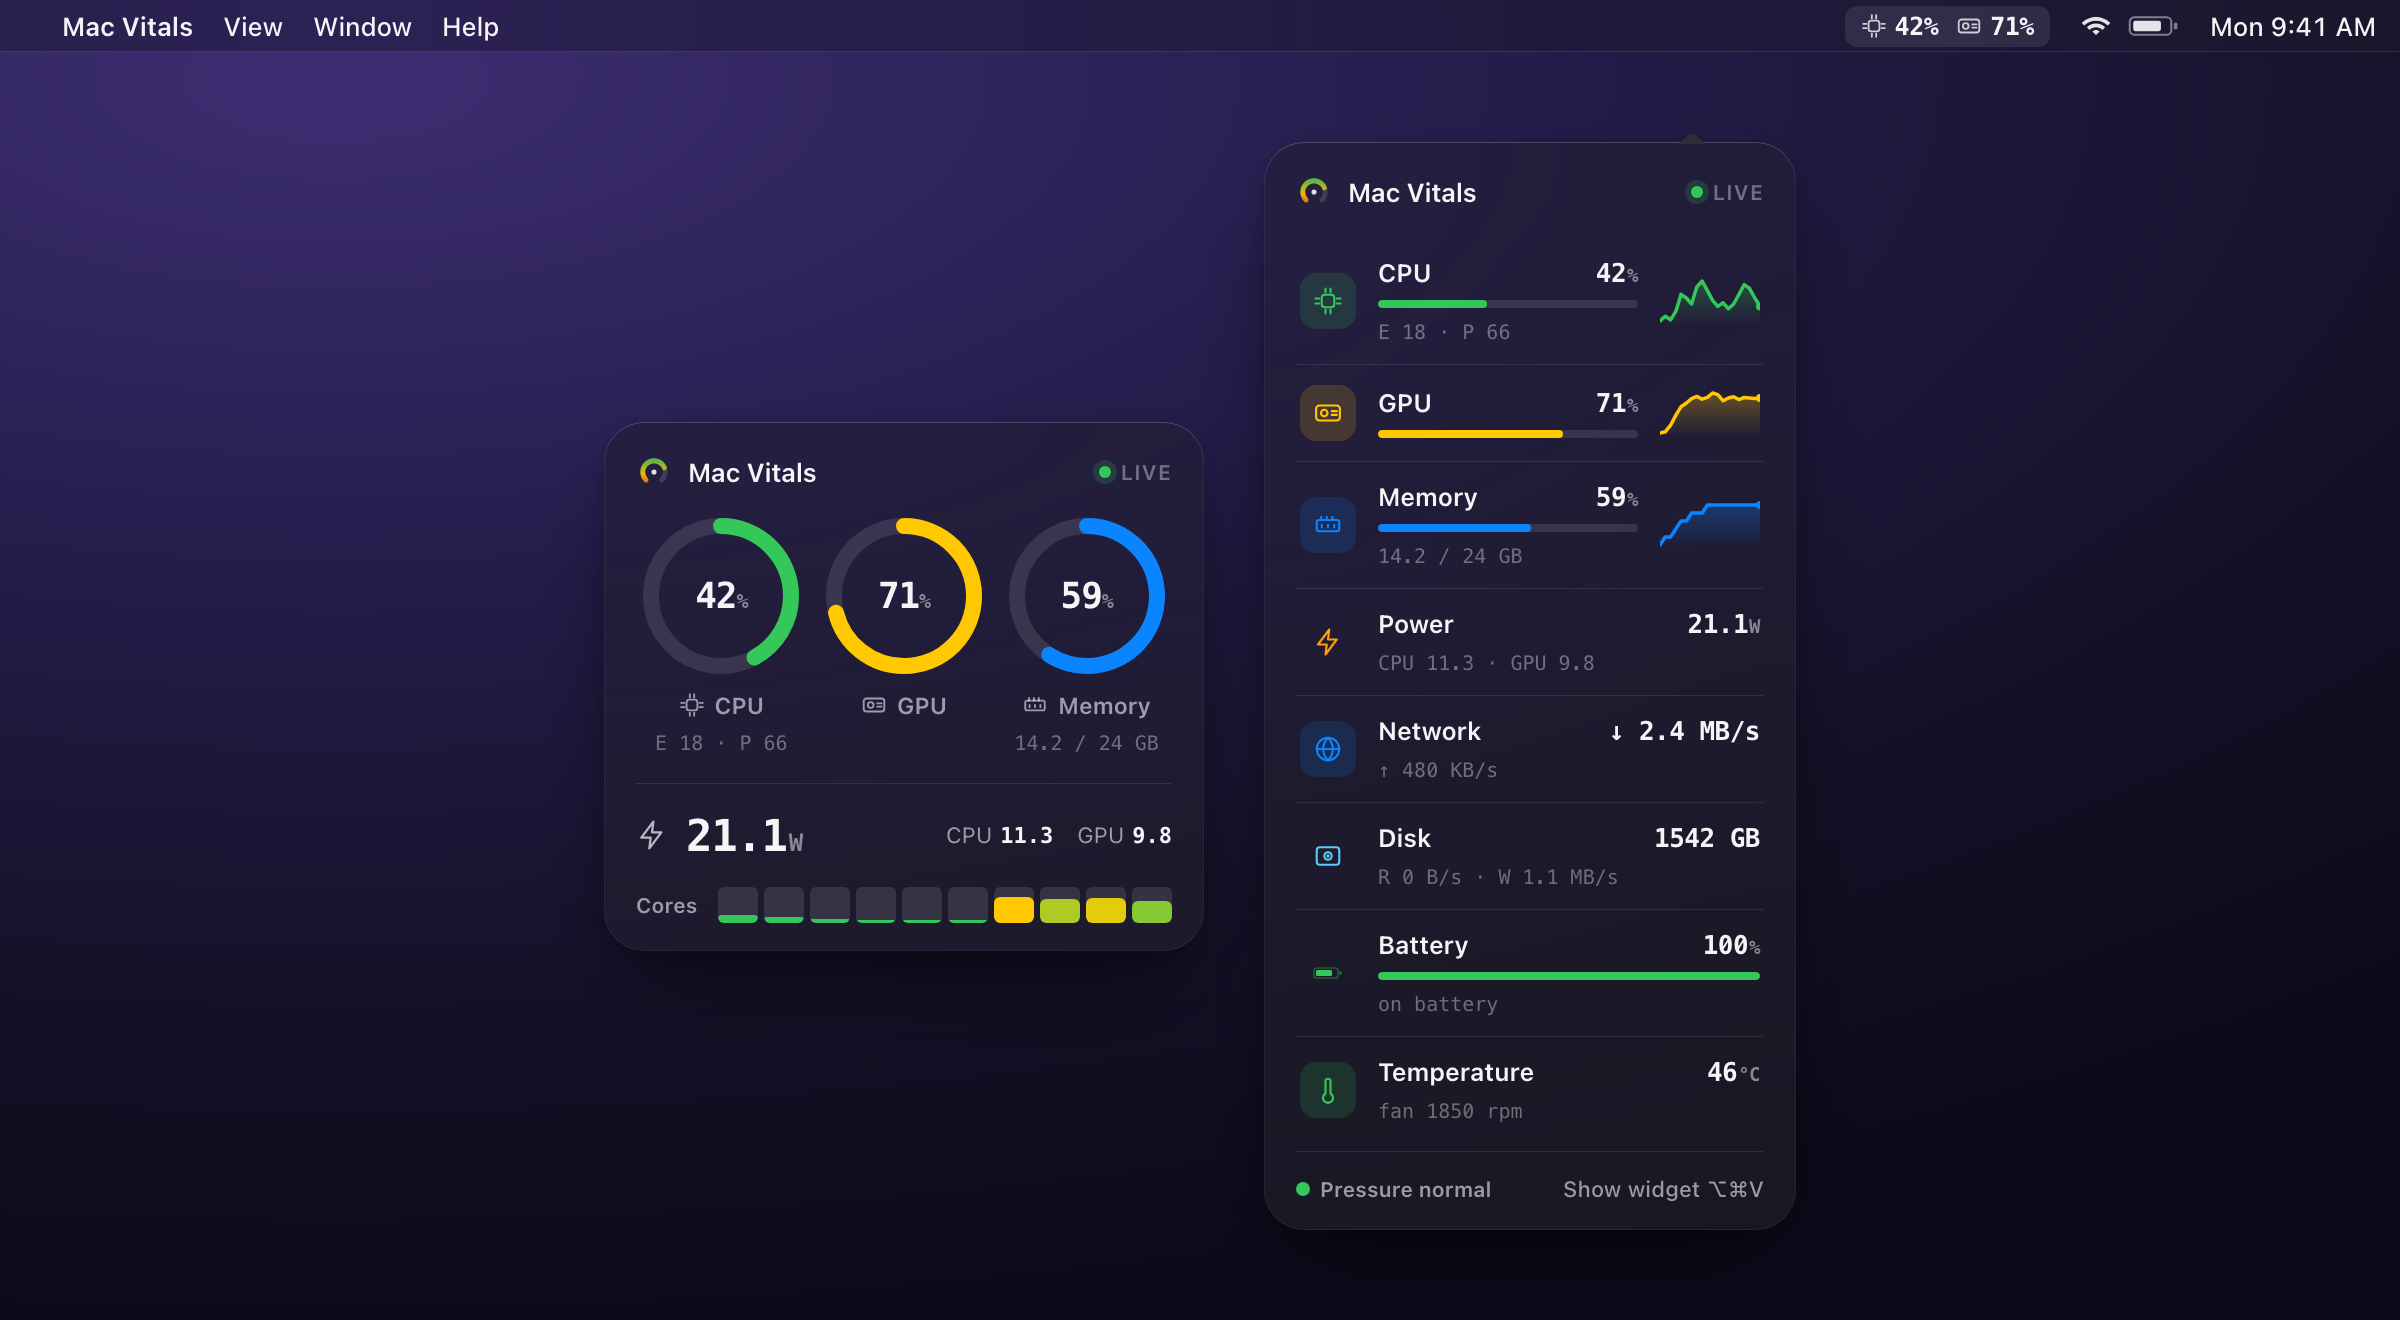
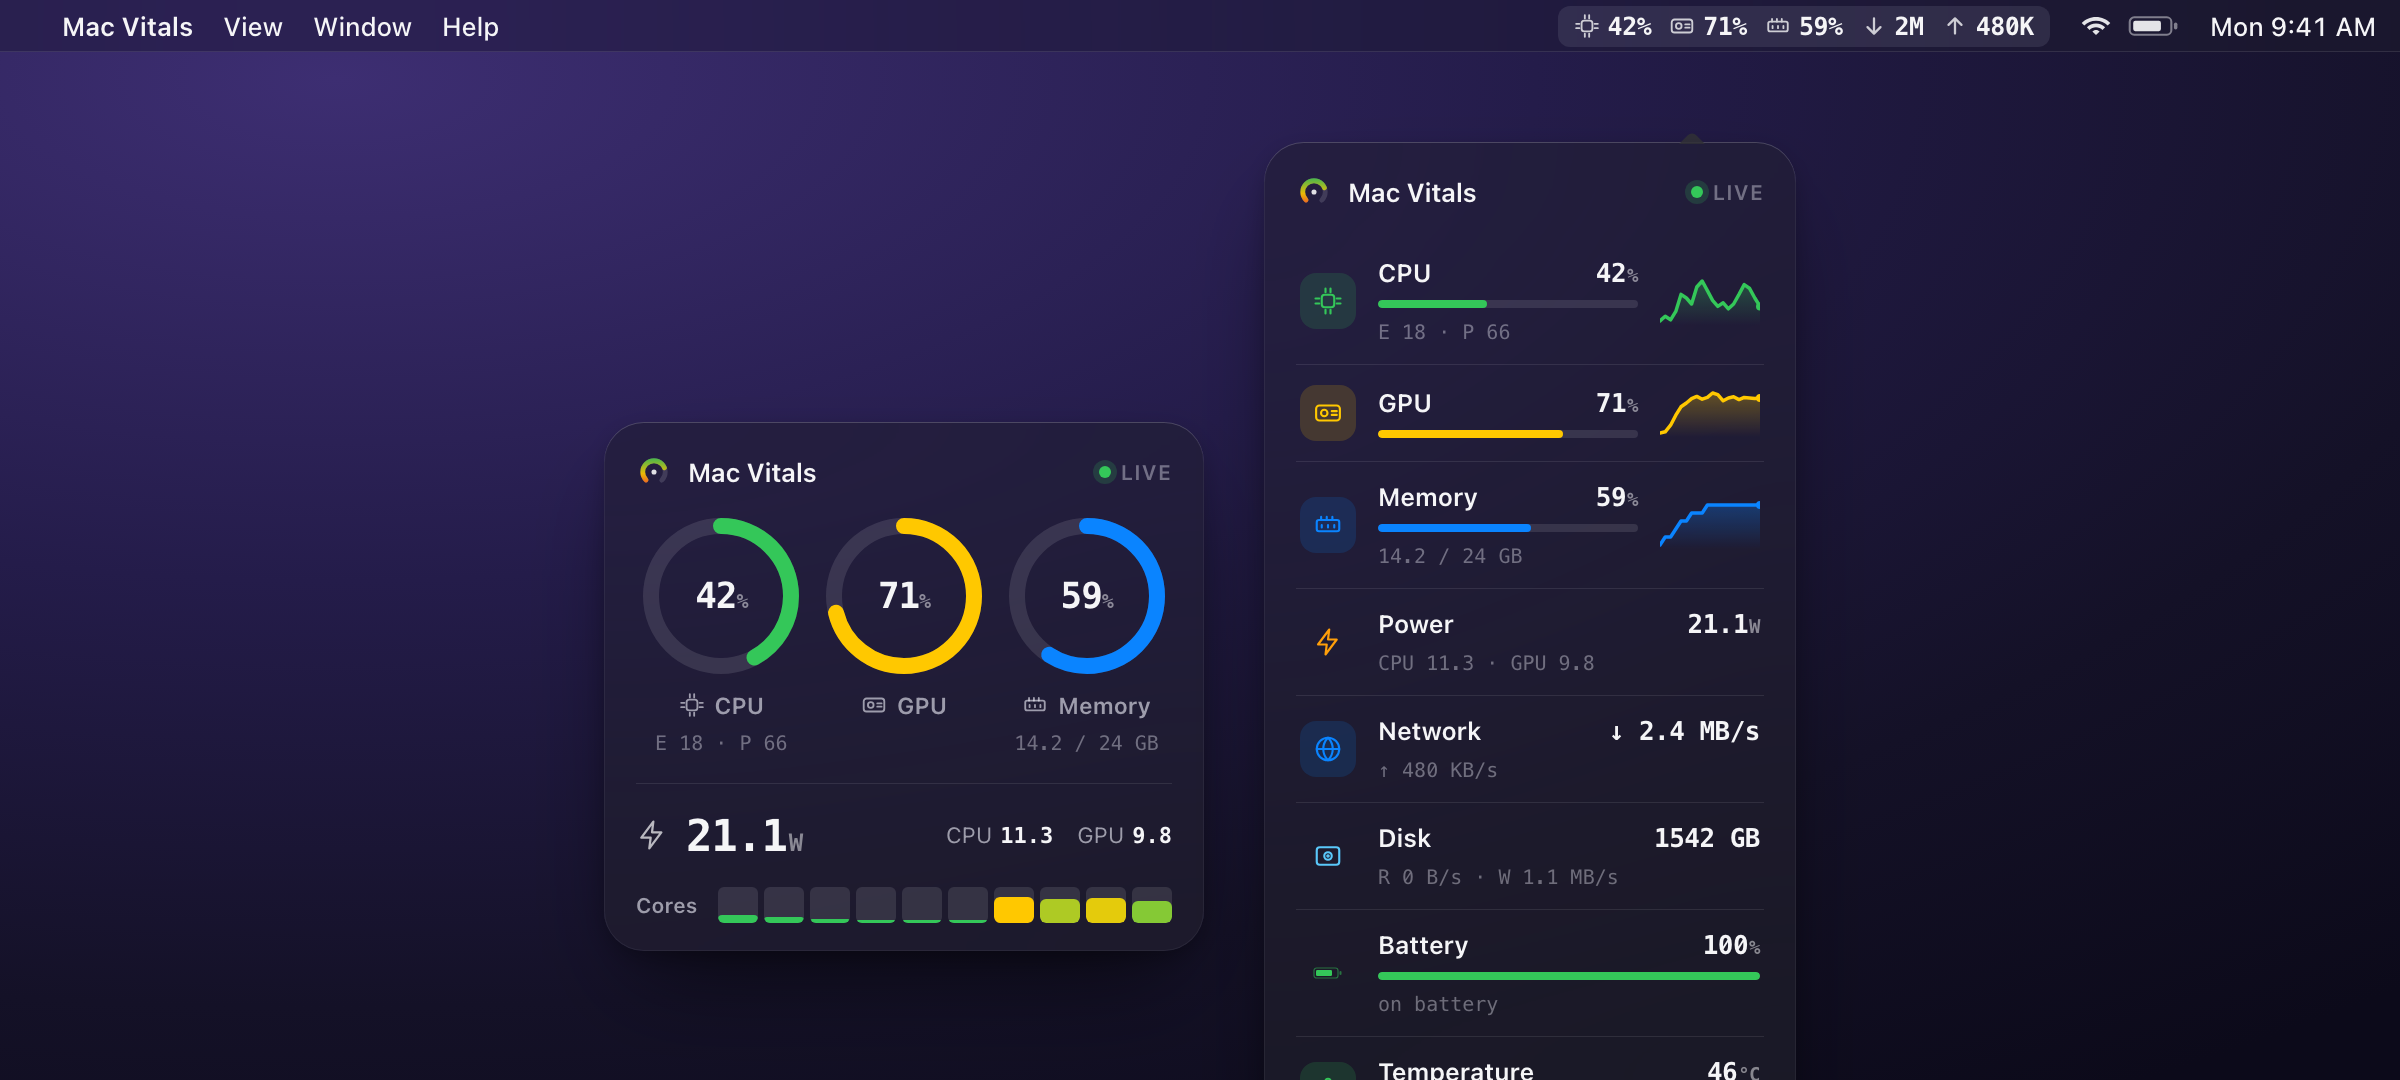
Fix stale menu-bar readout in hero and social card
The menu bar shows CPU, GPU, memory, and network in/out in its default full
mode, but the hero and social card still drew only CPU and GPU. Match them to
the app: add memory and the down/up rates with the same compact format.

diff --git a/docs/design/hero.html b/docs/design/hero.html
@@ -232,7 +232,9 @@ const I = {
   disk:`<svg viewBox="0 0 24 24" fill="none" stroke="currentColor" stroke-width="1.7" stroke-linecap="round" stroke-linejoin="round"><rect x="3" y="5" width="18" height="14" rx="2.4"/><circle cx="12" cy="12" r="3"/><circle cx="12" cy="12" r="0.6" fill="currentColor"/></svg>`,
   thermo:`<svg viewBox="0 0 24 24" fill="none" stroke="currentColor" stroke-width="1.7" stroke-linecap="round" stroke-linejoin="round"><path d="M14 14.8V5a2 2 0 0 0-4 0v9.8a4 4 0 1 0 4 0Z"/></svg>`,
   wifi:`<svg width="16" height="13" viewBox="0 0 24 20" fill="currentColor"><path d="M12 3C7.5 3 3.7 4.8 1 7.6l2 2C5.3 7.3 8.5 6 12 6s6.7 1.3 9 3.6l2-2C20.3 4.8 16.5 3 12 3Zm0 5c-2.8 0-5.3 1.1-7 3l2 2c1.3-1.3 3-2 5-2s3.7.7 5 2l2-2c-1.7-1.9-4.2-3-7-3Zm0 5c-1.1 0-2.1.5-2.8 1.2L12 17l2.8-2.8C14.1 13.5 13.1 13 12 13Z"/></svg>`,
-  batt:`<svg width="26" height="13" viewBox="0 0 30 14" fill="none"><rect x="1" y="2" width="24" height="10" rx="2.6" stroke="currentColor" stroke-opacity=".5" stroke-width="1.2"/><rect x="3" y="4" width="16" height="6" rx="1.2" fill="currentColor"/><rect x="26.5" y="5" width="2" height="4" rx="1" fill="currentColor" fill-opacity=".5"/></svg>`
+  batt:`<svg width="26" height="13" viewBox="0 0 30 14" fill="none"><rect x="1" y="2" width="24" height="10" rx="2.6" stroke="currentColor" stroke-opacity=".5" stroke-width="1.2"/><rect x="3" y="4" width="16" height="6" rx="1.2" fill="currentColor"/><rect x="26.5" y="5" width="2" height="4" rx="1" fill="currentColor" fill-opacity=".5"/></svg>`,
+  down:`<svg viewBox="0 0 24 24" fill="none" stroke="currentColor" stroke-width="2.1" stroke-linecap="round" stroke-linejoin="round"><path d="M12 5v14M6 13l6 6 6-6"/></svg>`,
+  up:`<svg viewBox="0 0 24 24" fill="none" stroke="currentColor" stroke-width="2.1" stroke-linecap="round" stroke-linejoin="round"><path d="M12 19V5M6 11l6-6 6 6"/></svg>`
 };
 function pctHTML(v){ return `${Math.round(v)}<u>%</u>`; }
 function chip(color){ if(String(color).startsWith('var')) return 'rgba(10,132,255,.15)'; const m=color.match(/\d+/g); return `rgba(${m[0]},${m[1]},${m[2]},.16)`; }
@@ -284,9 +286,19 @@ function popover(d){
     <div class="plist">${rows}</div>
     <div class="pfoot"><span class="pill"><i style="background:#34c759"></i>Pressure normal</span><span class="btn">Show widget ⌥⌘V</span></div>`;
 }
+function rateCompact(s){
+  const m = String(s).match(/([\d.]+)\s*(MB|KB|GB|B)/);
+  if(!m) return '0';
+  const v = parseFloat(m[1]);
+  if(m[2]==='GB') return Math.round(v*1024)+'M';
+  if(m[2]==='MB') return Math.round(v)+'M';
+  if(m[2]==='KB') return Math.round(v)+'K';
+  return '0';
+}
 function menubarItem(d){
-  return `<span class="vit-metric">${I.cpu}<span class="val">${d.cpu.usage}%</span></span>
-          <span class="vit-metric">${I.gpu}<span class="val">${d.gpu.usage}%</span></span>`;
+  const m=(ic,v)=>`<span class="vit-metric">${ic}<span class="val">${v}</span></span>`;
+  return m(I.cpu, d.cpu.usage+'%') + m(I.gpu, d.gpu.usage+'%') + m(I.mem, d.mem.pct+'%')
+       + m(I.down, rateCompact(d.net.down)) + m(I.up, rateCompact(d.net.up));
 }
 
 for(const mode of ['dark']){

diff --git a/docs/design/social.html b/docs/design/social.html
@@ -139,7 +139,9 @@ const I = {
   cpu:`<svg viewBox="0 0 24 24" fill="none" stroke="currentColor" stroke-width="1.7" stroke-linecap="round" stroke-linejoin="round"><rect x="7" y="7" width="10" height="10" rx="2.4"/><path d="M10 2v3M14 2v3M10 19v3M14 19v3M2 10h3M2 14h3M19 10h3M19 14h3"/></svg>`,
   gpu:`<svg viewBox="0 0 24 24" fill="none" stroke="currentColor" stroke-width="1.7" stroke-linecap="round" stroke-linejoin="round"><rect x="2.5" y="6" width="19" height="12" rx="2.6"/><circle cx="9" cy="12" r="2.6"/><path d="M15 10.5h4M15 13.5h4"/></svg>`,
   mem:`<svg viewBox="0 0 24 24" fill="none" stroke="currentColor" stroke-width="1.7" stroke-linecap="round" stroke-linejoin="round"><rect x="3" y="8" width="18" height="9" rx="1.8"/><path d="M6.5 8V5.5M11 8V5.5M15.5 8V5.5M7 12v2M12 12v2M17 12v2"/></svg>`,
-  bolt:`<svg viewBox="0 0 24 24" fill="none" stroke="currentColor" stroke-width="1.7" stroke-linecap="round" stroke-linejoin="round"><path d="M13 2 4 14h7l-1 8 9-12h-7l1-8Z"/></svg>`
+  bolt:`<svg viewBox="0 0 24 24" fill="none" stroke="currentColor" stroke-width="1.7" stroke-linecap="round" stroke-linejoin="round"><path d="M13 2 4 14h7l-1 8 9-12h-7l1-8Z"/></svg>`,
+  down:`<svg viewBox="0 0 24 24" fill="none" stroke="currentColor" stroke-width="2.1" stroke-linecap="round" stroke-linejoin="round"><path d="M12 5v14M6 13l6 6 6-6"/></svg>`,
+  up:`<svg viewBox="0 0 24 24" fill="none" stroke="currentColor" stroke-width="2.1" stroke-linecap="round" stroke-linejoin="round"><path d="M12 19V5M6 11l6-6 6 6"/></svg>`
 };
 function pctHTML(v){ return `${Math.round(v)}<u>%</u>`; }
 
@@ -149,7 +151,10 @@ const cpuC=loadColor(d.cpu.usage), gpuC=loadColor(d.gpu.usage);
 document.getElementById('brandmark').innerHTML = I.gauge;
 document.getElementById('mbvit').innerHTML =
   `<span class="m">${I.cpu}<span class="v">${d.cpu.usage}%</span></span>
-   <span class="m">${I.gpu}<span class="v">${d.gpu.usage}%</span></span>`;
+   <span class="m">${I.gpu}<span class="v">${d.gpu.usage}%</span></span>
+   <span class="m">${I.mem}<span class="v">${d.mem.pct}%</span></span>
+   <span class="m">${I.down}<span class="v">2M</span></span>
+   <span class="m">${I.up}<span class="v">480K</span></span>`;
 
 document.getElementById('chips').innerHTML = [
   `<span class="chip"><i style="background:#34c759"></i>No sudo</span>`,
